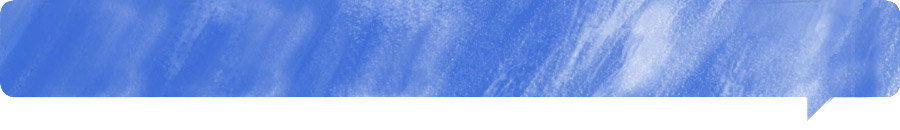
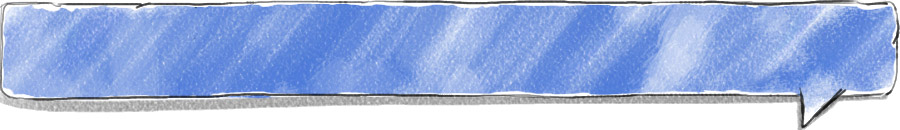
新发布框

diff --git a/public/stylesheets/main.sass b/public/stylesheets/main.sass
@@ -9,11 +9,10 @@
   color: #fff
   .z_header
     width: 900px
-    height: 45px
+    height: 108px
     @include border-radius(8px)
-    background: url('/images/embed/dash_bg.jpg') no-repeat center
+    background: url('/images/embed/dash_bg2.jpg') no-repeat
     position: absolute
-    top: 60px
     right: 0
     left: 0
     bottom: 0
@@ -21,7 +20,6 @@
   .z_icon
     @include size(60px, 60px)
     @include border-radius(10px)
-    border: 3px solid #7999dd
     position: absolute
     top: 12px
     left: 22px

diff --git a/public/stylesheets/dashboard.sass b/public/stylesheets/dashboard.sass
@@ -5,11 +5,6 @@
   @include size(14px, 14px)
   overflow: hidden
 
-@mixin post_area_button
-  width: 125px
-  display: block
-  background: url('/images/embed/dash_bg.png') no-repeat
-
 a.page_name
   font-weight: bold
   line-height: 1.5
